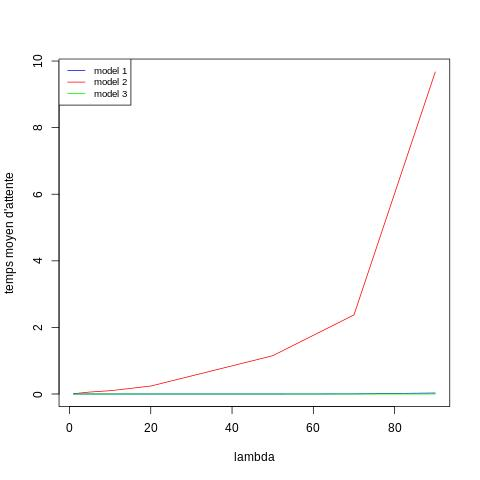
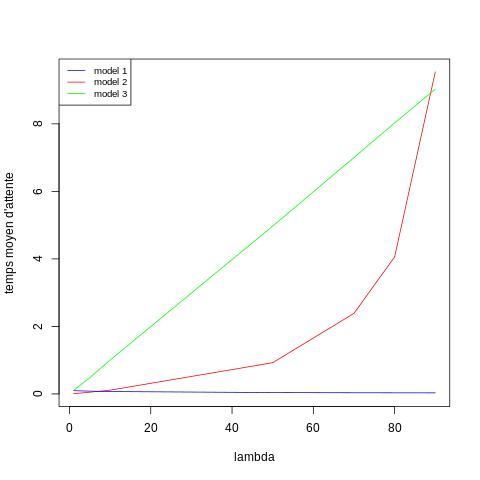
Dernier commit concernant les programmes (normalement)

diff --git a/prog/mainQ1.c b/prog/mainQ1.c
@@ -1,7 +1,7 @@
 #include "tri_fusion.c"
 
 //Constante
-#define EPSILON 1e-2
+#define EPSILON 1e-3
 #define MAXEVENT 10000000
 #define NBSERVEUR 10
 #define MU 10
@@ -26,7 +26,7 @@ typedef struct tableau{
 }tab;
 
 //Variable globale
-double LAMBDA=0;
+double LAMBDA=0.0;
 echeancier ech;
 double T=0.0;
 long int n=0;
@@ -80,6 +80,7 @@ void theorieE(){
 
 void theorieT90(){
   t90th=(Eth/q)*log(10*q);
+  if(t90th<0) t90th=0;
 }
 
 //Fonction pour ajouter un event dans l'echeancier
@@ -93,7 +94,7 @@ void initVariable(){
   n=0;
   T=0.0;
   ticket=1;
-  ticketCourant=1;
+  ticketCourant=0;
   cumul=0;
   compteur=0;
   Eth=0.0;
@@ -103,12 +104,13 @@ void initVariable(){
 
 void initTempsMoy(){
   for(int i=0;i<MAXEVENT;i++){
-    tempsMoy.T[i]=-1;
+    tempsMoy.T[i]=0.0;
   }
   tempsMoy.taille=0;
 }
 
 void initEcheancier(){
+  ech.taille=0;
   event e;
   e.type=0;
   e.t=0.0;
@@ -120,6 +122,7 @@ void initEcheancier(){
 void initSimulation(){
   initVariable();
   initTempsMoy();
+  initEcheancier();
 }
 
 int condition_arret (long double old, long double new){
@@ -134,7 +137,7 @@ int condition_arret (long double old, long double new){
 }
 
 event rechercheEvent(long int ticket){
-  int indice;
+  int indice=0;
   for(int i=0;i<ech.taille;i++){
     if(ech.T[i].etat==1 && ech.T[i].ticket==ticket){
       indice=i;
@@ -210,6 +213,7 @@ event extrait(){
 }
 
 void simulation(FILE* resultat){
+  initSimulation();
 
   long double oldNmoyen=0.0;
   long double Nmoyen=0.0;
@@ -226,12 +230,9 @@ void simulation(FILE* resultat){
     if(e.type==1) finService(e);
     if(n>10) break;
   }
-  double E;
-  double t90;
+  double E=0.0;
+  double t90=0.0;
   if(T<TEMPSMAX){
-    double Nmoy=cumul/T;
-    printf("nombre moyen de client : %f\n",Nmoy);
-
     //Calcul de E[A]
     for(int i=0;i<tempsMoy.taille;i++){
       E+=tempsMoy.T[i];

diff --git a/prog/mainQ3.c b/prog/mainQ3.c
@@ -38,6 +38,9 @@ int occ[NBSERVEUR];
 double cumul=0;
 int compteur=0;
 
+double Eth=0.0;
+double t90th=0.0;
+
 //Fonction
 void ajoutEvent(event e){
   if(ech.taille==MAXEVENT){
@@ -254,7 +257,7 @@ void simulation(FILE* resultat){
     E=-1;
     t90=-1;
   }
-  fprintf(resultat, "%f %f %f %f\n",LAMBDA,Nmoy, E,t90 );
+  fprintf(resultat, "%f %f %f %f %f\n",LAMBDA, E,t90, Eth, t90th );
 
 }
 
